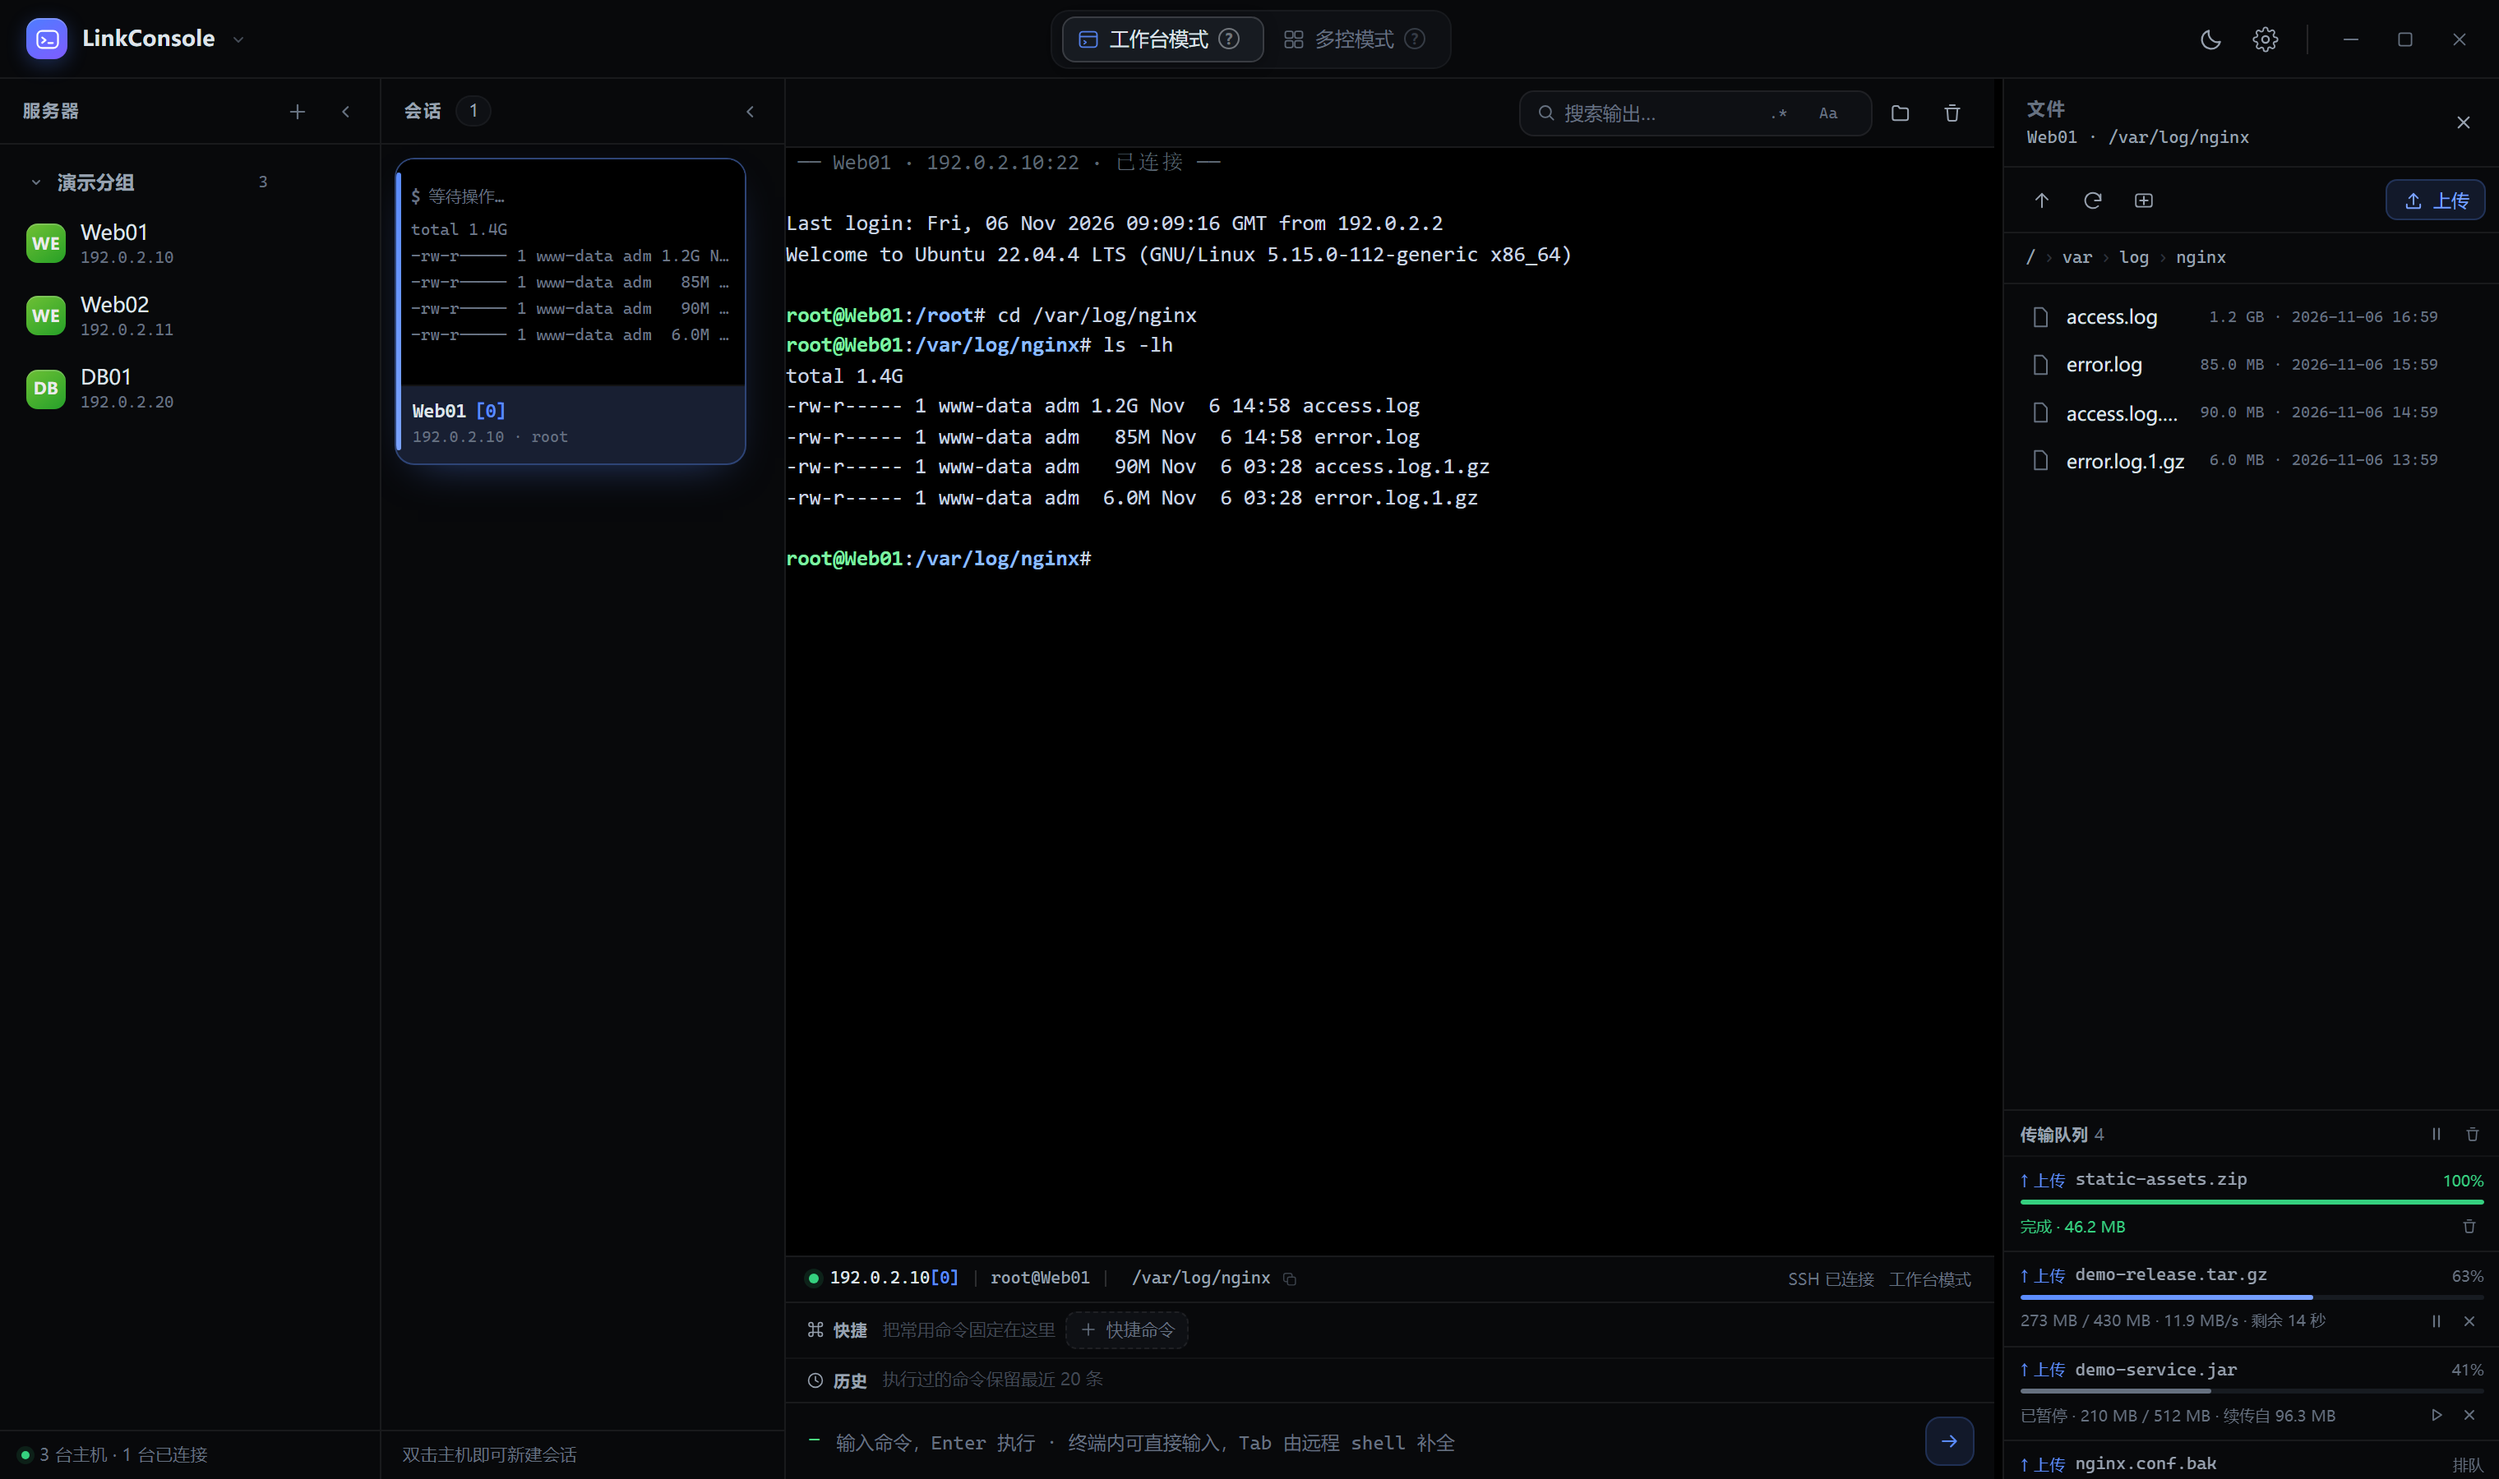
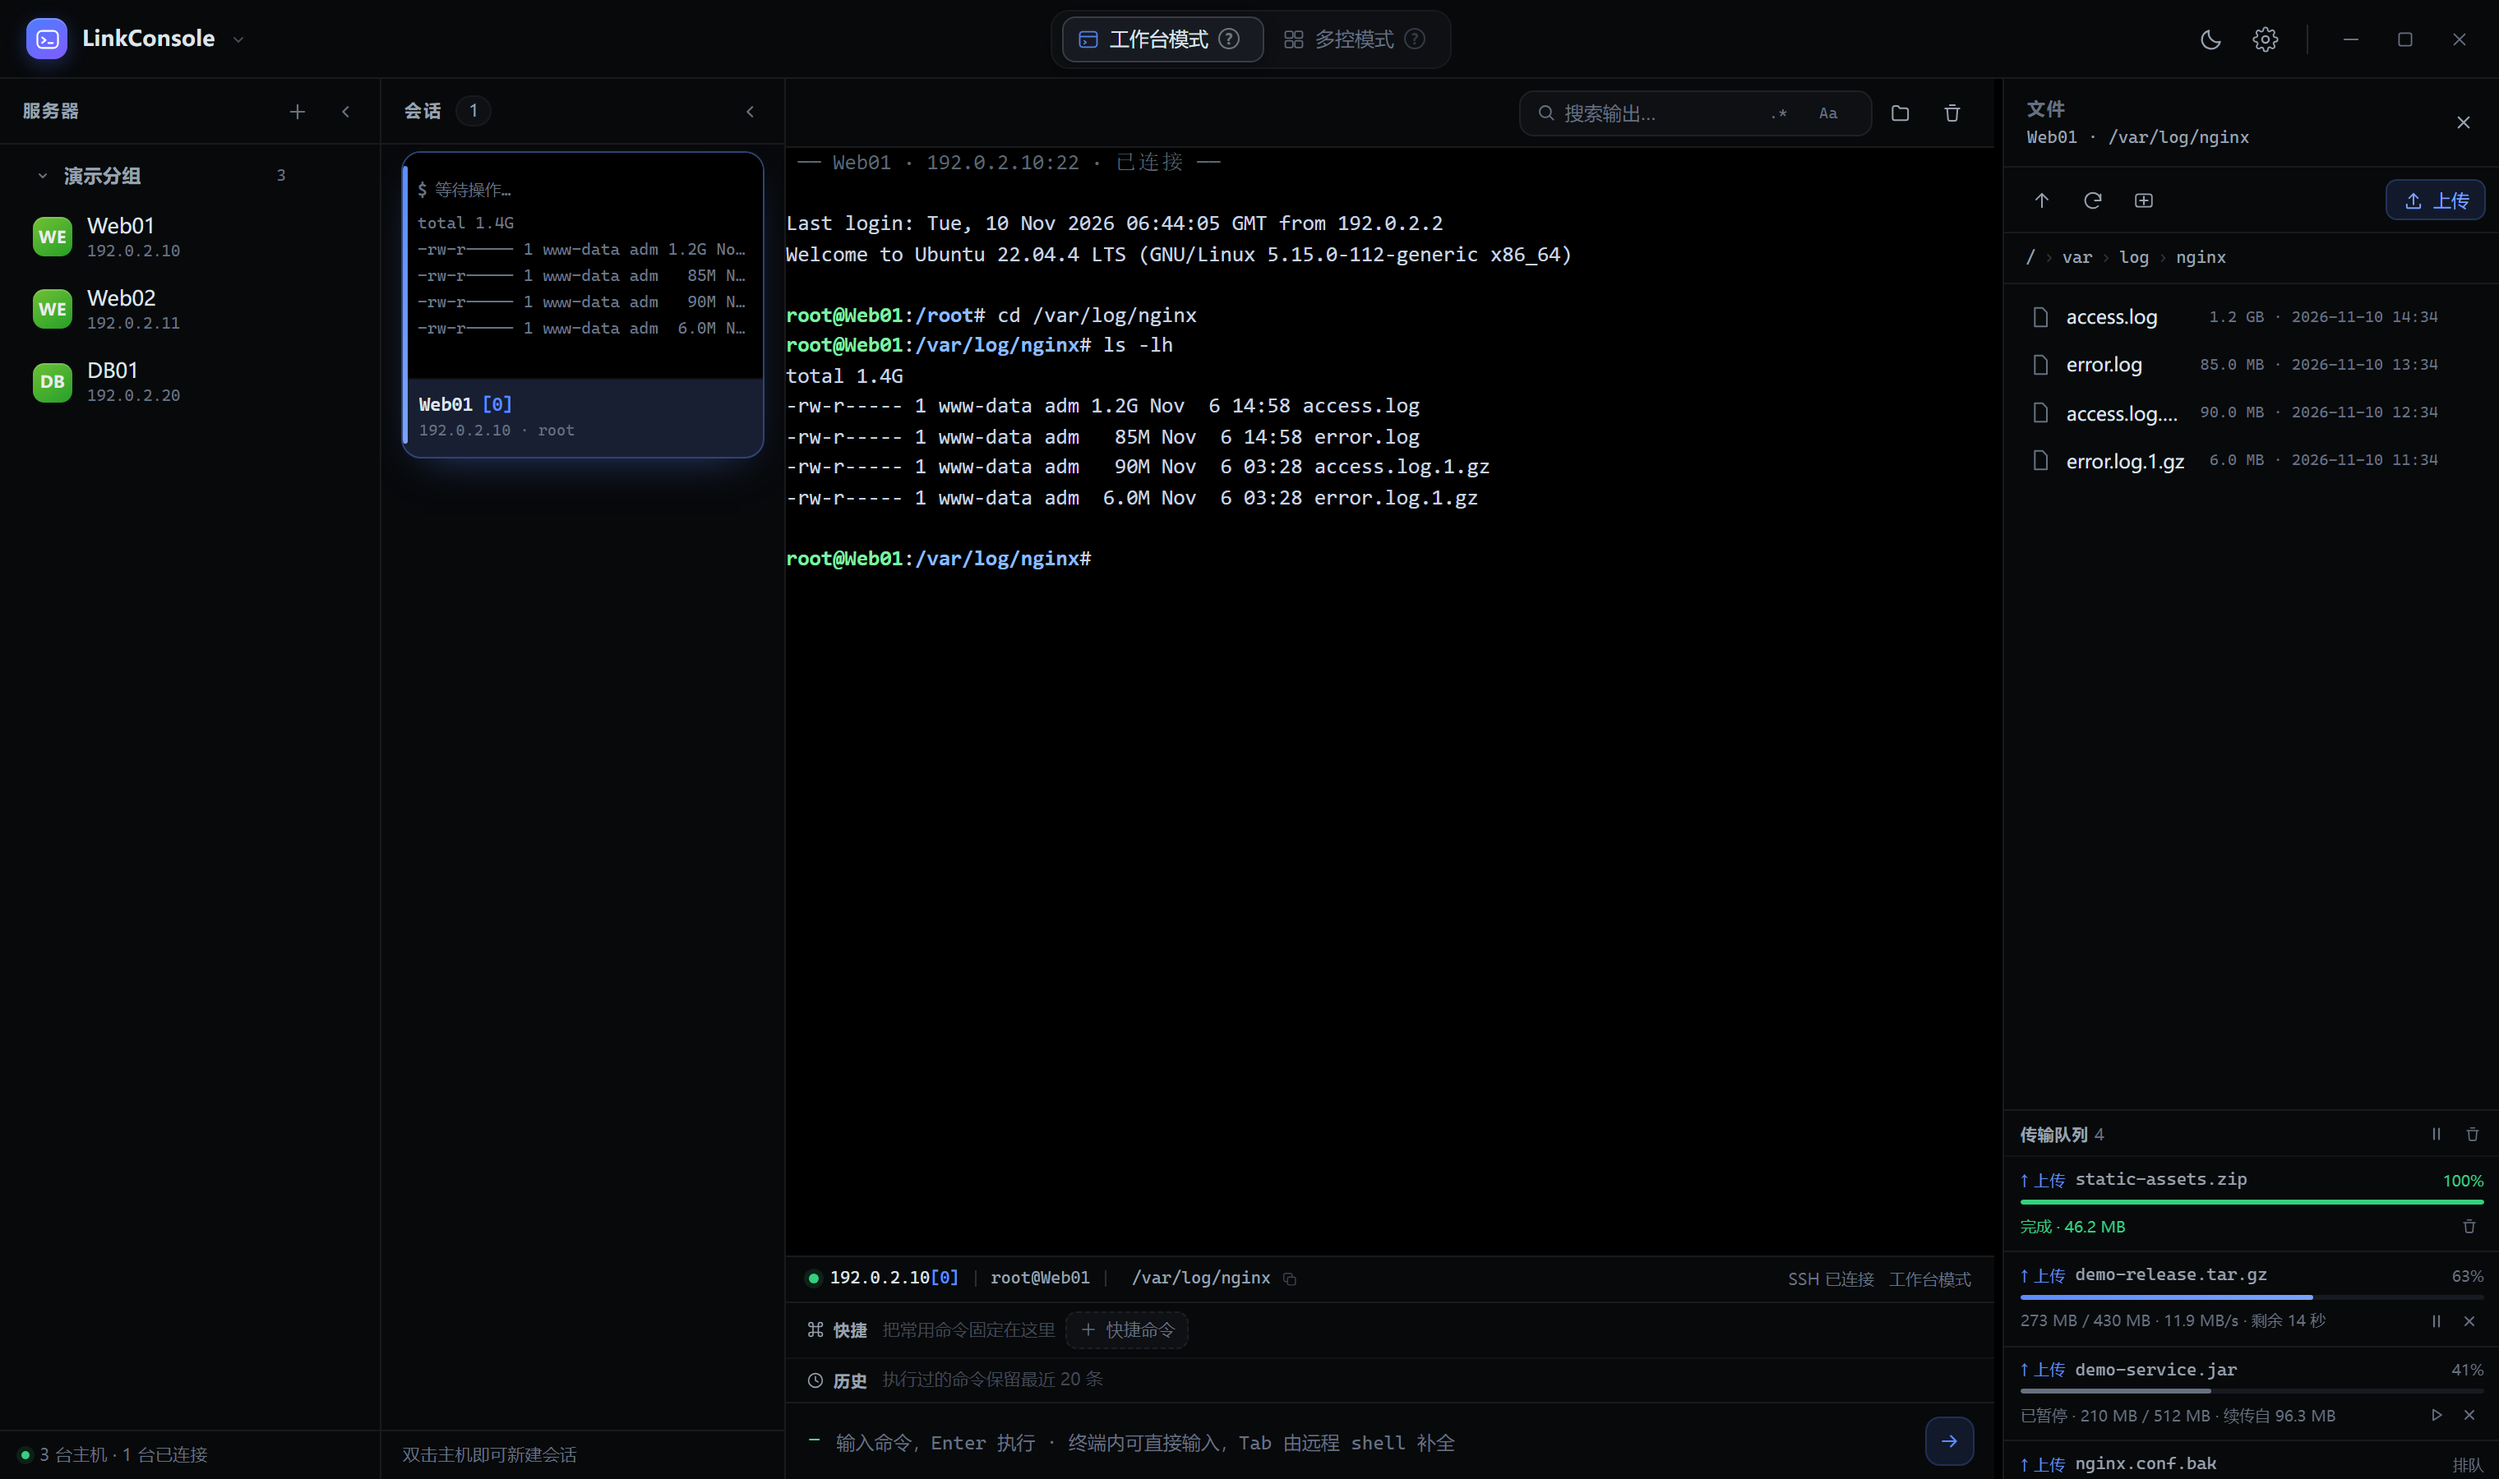
feat: 更换示例图片

Changed region(s): [[0.1562, 0.0933, 0.3125, 0.3111], [0.0, 0.0933, 0.0625, 0.28], [0.375, 0.1244, 0.4062, 0.1556]]

diff --git a/src/styles.css b/src/styles.css
@@ -214,7 +214,11 @@ html[data-theme="light"] .ico-sun{display:block}
 .col-head:hover .mini-btn.col-collapse{opacity:.85}
 .mini-btn svg{width:14px;height:14px}
 .mini-btn:hover{background:var(--panel-3);color:var(--text)}
-.col-scroll{flex:1;overflow-y:auto;overflow-x:hidden;padding:6px 6px 10px;scrollbar-gutter:stable}
+/* both-edges：左右对称预留滚动条槽位，保证列内内容（会话卡片 / 树）水平居中；
+   只用 stable 会单侧留白，卡片整体偏左。
+   scrollbar-color:auto 让下方 ::-webkit-scrollbar 的 8px 自定义宽度生效，
+   否则标准滚动条占 15px，两侧留白过大。 */
+.col-scroll{flex:1;overflow-y:auto;overflow-x:hidden;padding:6px 6px 10px;scrollbar-gutter:stable both-edges;scrollbar-color:auto}
 .col-foot{
   flex:0 0 28px;display:flex;align-items:center;gap:6px;padding:0 12px;font-size:10.5px;color:var(--text-faint);
   border-top:1px solid var(--border);background:var(--panel);
@@ -966,7 +970,8 @@ html[data-theme="light"] .win-btn:active{background:rgba(16,24,40,.09)}
 .count{padding:1px 7px;border:1px solid var(--border-soft);background:var(--panel-2)}
 .mini-btn{border-radius:7px}
 .mini-btn:hover{background:var(--panel-3)}
-.col-scroll{padding:8px 8px 12px}
+/* 左右各 4px 内边距 + 8px 对称槽位 = 12px，约为原 23px 的一半 */
+.col-scroll{padding:4px 4px 12px}
 .col-foot{flex:0 0 30px;height:30px;padding:0 13px;letter-spacing:.1px}
 .col-rail{gap:12px}
 .col-rail:hover{background:var(--panel-2)}
